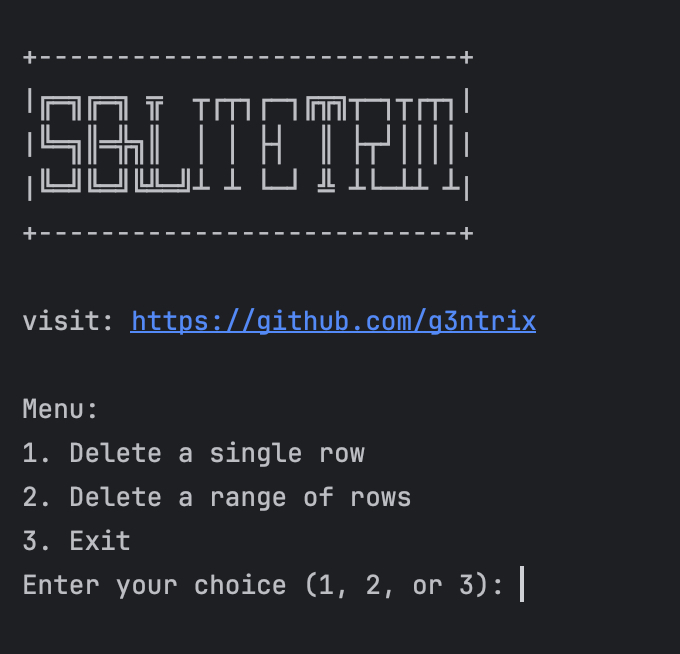
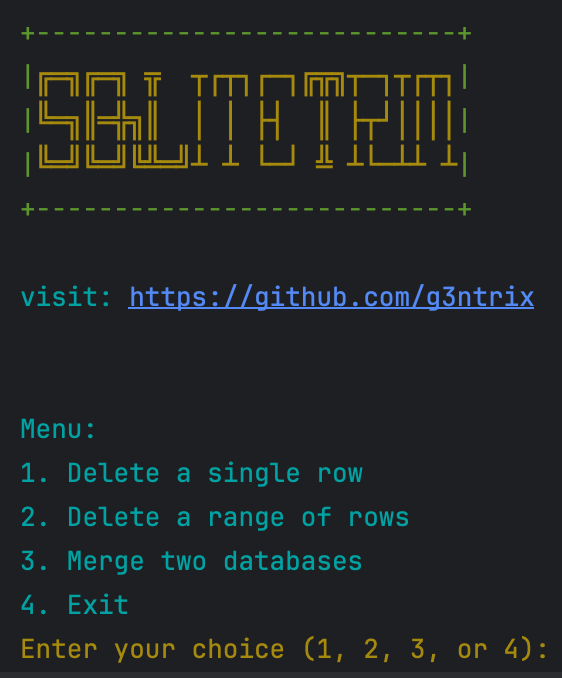
Add GUI and Terminal Interface Options, Database Merging Functionality, and Improved UX
This update includes several major enhancements and features:

1. Added the option to choose between a GUI and terminal-based interface.
2. Implemented functionality to merge two SQLite databases while preserving settings from the first database.
3. Improved user experience with better formatting, coloring, and always visible banner throughout the menus.
4. Updated the README to reflect the new features, including detailed instructions and side-by-side screenshots.

These changes aim to enhance the usability and functionality of the SQLiteTrim tool, making it more versatile and user-friendly.

diff --git a/main.py b/main.py
@@ -1,17 +1,82 @@
 import sqlite3
-import os
 import shutil
+import tkinter as tk
+from tkinter import filedialog, simpledialog
+import colorama
+from colorama import Fore, Style
 
-print("""
-+---------------------------+
-|╔═╗╔═╗ ╦  ┬┌┬┐┌─┐╔╦╗┬─┐┬┌┬┐|
-|╚═╗║═╬╗║  │ │ ├┤  ║ ├┬┘││││|
-|╚═╝╚═╝╚╩═╝┴ ┴ └─┘ ╩ ┴└─┴┴ ┴|
-+---------------------------+
+colorama.init(autoreset=True)
+
+print(f"""
+{Fore.GREEN}+---------------------------+
+{Fore.GREEN}|{Fore.YELLOW}╔═╗╔═╗ ╦  ┬┌┬┐┌─┐╔╦╗┬─┐┬┌┬┐{Fore.GREEN}|
+{Fore.GREEN}|{Fore.YELLOW}╚═╗║═╬╗║  │ │ ├┤  ║ ├┬┘││││{Fore.GREEN}|
+{Fore.GREEN}|{Fore.YELLOW}╚═╝╚═╝╚╩═╝┴ ┴ └─┘ ╩ ┴└─┴┴ ┴{Fore.GREEN}|
+{Fore.GREEN}+---------------------------+
 """)
-print("visit: https://github.com/g3ntrix")
+print(f"{Fore.CYAN}visit: https://github.com/g3ntrix\n")
 
-def recreate_with_sequential_ids(original_db_path, new_db_path, delete_type, start_id, end_id=None):
+def recreate_with_sequential_ids(db_path, start_id=1):
+    conn = sqlite3.connect(db_path)
+    cursor = conn.cursor()
+
+    try:
+        cursor.execute("PRAGMA table_info(inbounds)")
+        columns_info = cursor.fetchall()
+        columns = [col[1] for col in columns_info]
+        columns_str = ', '.join(columns)
+        placeholders = ', '.join('?' * len(columns))
+
+        cursor.execute("SELECT * FROM inbounds ORDER BY id")
+        rows = cursor.fetchall()
+        cursor.execute("DELETE FROM inbounds")
+        conn.commit()
+
+        for new_id, row in enumerate(rows, start=start_id):
+            new_row = (new_id,) + row[1:]
+            cursor.execute(f"INSERT INTO inbounds ({columns_str}) VALUES ({placeholders})", new_row)
+
+        conn.commit()
+
+    except sqlite3.OperationalError as e:
+        print(f"{Fore.RED}OperationalError: {e}")
+    finally:
+        conn.close()
+
+def merge_databases(db1_path, db2_path, output_path):
+    shutil.copyfile(db1_path, output_path)
+    conn1 = sqlite3.connect(output_path)
+    conn2 = sqlite3.connect(db2_path)
+    cursor1 = conn1.cursor()
+    cursor2 = conn2.cursor()
+
+    try:
+        cursor1.execute("SELECT MAX(id) FROM inbounds")
+        max_id = cursor1.fetchone()[0] or 0
+        new_start_id = max_id + 1
+
+        cursor2.execute("PRAGMA table_info(inbounds)")
+        columns_info = cursor2.fetchall()
+        columns = [col[1] for col in columns_info]
+        columns_str = ', '.join(columns)
+        placeholders = ', '.join('?' * len(columns))
+
+        cursor2.execute("SELECT * FROM inbounds ORDER BY id")
+        rows = cursor2.fetchall()
+
+        for new_id, row in enumerate(rows, start=new_start_id):
+            new_row = (new_id,) + row[1:]
+            cursor1.execute(f"INSERT INTO inbounds ({columns_str}) VALUES ({placeholders})", new_row)
+
+        conn1.commit()
+
+    except sqlite3.OperationalError as e:
+        print(f"{Fore.RED}OperationalError: {e}")
+    finally:
+        conn1.close()
+        conn2.close()
+
+def delete_and_recreate(original_db_path, new_db_path, delete_type, start_id, end_id=None):
     shutil.copyfile(original_db_path, new_db_path)
     conn = sqlite3.connect(new_db_path)
     cursor = conn.cursor()
@@ -45,48 +110,115 @@ def recreate_with_sequential_ids(original_db_path, new_db_path, delete_type, sta
         conn.commit()
 
     except sqlite3.OperationalError as e:
-        print(f"OperationalError: {e}")
+        print(f"{Fore.RED}OperationalError: {e}")
     finally:
         conn.close()
 
+def select_file(gui, description):
+    if gui:
+        return filedialog.askopenfilename(title=description, filetypes=[("SQLite Database Files", "*.db"), ("All Files", "*.*")])
+    else:
+        return input(f"{Fore.YELLOW}{description}: ")
+
+def select_save_location(gui):
+    if gui:
+        return filedialog.asksaveasfilename(title="Select save location", defaultextension=".db", filetypes=[("SQLite Database Files", "*.db"), ("All Files", "*.*")])
+    else:
+        return input(f"{Fore.YELLOW}Enter the path to save the modified database: ")
+
+def get_input(prompt, gui):
+    if gui:
+        return simpledialog.askstring("Input", prompt)
+    else:
+        return input(f"{Fore.YELLOW}{prompt}: ")
+
 def main():
-    original_db_path = 'x-ui.db'
-    new_db_path = 'x-ui_modified.db'
+    print(f"{Fore.CYAN}Do you want to use the GUI or terminal interface?")
+    print(f"{Fore.CYAN}1. GUI")
+    print(f"{Fore.CYAN}2. Terminal")
+    choice = input(f"{Fore.YELLOW}Enter your choice (1 or 2): ")
+
+    gui = choice == '1'
+
+    if gui:
+        root = tk.Tk()
+        root.withdraw()
+        root.attributes('-topmost', True)
 
     while True:
-        print("\nMenu:")
-        print("1. Delete a single row")
-        print("2. Delete a range of rows")
-        print("3. Exit")
+        print(f"{Fore.CYAN}\nMenu:")
+        print(f"{Fore.CYAN}1. Delete a single row")
+        print(f"{Fore.CYAN}2. Delete a range of rows")
+        print(f"{Fore.CYAN}3. Merge two databases")
+        print(f"{Fore.CYAN}4. Exit")
 
         try:
-            choice = int(input("Enter your choice (1, 2, or 3): "))
+            choice = int(input(f"{Fore.YELLOW}Enter your choice (1, 2, 3, or 4): "))
         except ValueError:
-            print("Invalid input. Please enter a number (1, 2, or 3).")
+            print(f"{Fore.RED}Invalid input. Please enter a number (1, 2, 3, or 4).")
             continue
 
         if choice == 1:
+            db_path = select_file(gui, "Enter the path to the database file")
+            if not db_path:
+                print(f"{Fore.RED}No file selected. Exiting.")
+                continue
+
+            output_path = select_save_location(gui)
+            if not output_path:
+                print(f"{Fore.RED}No file selected. Exiting.")
+                continue
+
             try:
-                start_id = int(input("Enter the ID of the row to delete: "))
-                recreate_with_sequential_ids(original_db_path, new_db_path, 'single', start_id)
-                print(f"Modified database saved as {new_db_path}")
-                break
+                start_id = int(get_input("Enter the ID of the row to delete", gui))
+                delete_and_recreate(db_path, output_path, 'single', start_id)
+                print(f"{Fore.GREEN}Modified database saved as {output_path}")
             except ValueError:
-                print("Invalid input. Please enter a valid row ID.")
+                print(f"{Fore.RED}Invalid input. Please enter a valid row ID.")
         elif choice == 2:
+            db_path = select_file(gui, "Enter the path to the database file")
+            if not db_path:
+                print(f"{Fore.RED}No file selected. Exiting.")
+                continue
+
+            output_path = select_save_location(gui)
+            if not output_path:
+                print(f"{Fore.RED}No file selected. Exiting.")
+                continue
+
             try:
-                start_id = int(input("Enter the start ID of the range to delete: "))
-                end_id = int(input("Enter the end ID of the range to delete: "))
-                recreate_with_sequential_ids(original_db_path, new_db_path, 'range', start_id, end_id)
-                print(f"Modified database saved as {new_db_path}")
-                break
+                start_id = int(get_input("Enter the start ID of the range to delete", gui))
+                end_id = int(get_input("Enter the end ID of the range to delete", gui))
+                delete_and_recreate(db_path, output_path, 'range', start_id, end_id)
+                print(f"{Fore.GREEN}Modified database saved as {output_path}")
             except ValueError:
-                print("Invalid input. Please enter valid row IDs.")
+                print(f"{Fore.RED}Invalid input. Please enter valid row IDs.")
         elif choice == 3:
-            print("Exiting the program.")
+            db1_path = select_file(gui, "Enter the path to the first database file")
+            if not db1_path:
+                print(f"{Fore.RED}No file selected. Exiting.")
+                continue
+
+            db2_path = select_file(gui, "Enter the path to the second database file")
+            if not db2_path:
+                print(f"{Fore.RED}No file selected. Exiting.")
+                continue
+
+            output_path = select_save_location(gui)
+            if not output_path:
+                print(f"{Fore.RED}No file selected. Exiting.")
+                continue
+
+            recreate_with_sequential_ids(db1_path)
+            recreate_with_sequential_ids(db2_path, start_id=1)
+            merge_databases(db1_path, db2_path, output_path)
+
+            print(f"{Fore.GREEN}Merged database saved as {output_path}")
+        elif choice == 4:
+            print(f"{Fore.CYAN}Exiting the program.")
             break
         else:
-            print("Invalid choice. Please enter 1, 2, or 3.")
+            print(f"{Fore.RED}Invalid choice. Please enter 1, 2, 3, or 4.")
 
 if __name__ == "__main__":
     main()

diff --git a/README.md b/README.md
@@ -1,18 +1,20 @@
 # SQLiteTrim
 
-**SQLiteTrim** is a specialized Python tool designed to help manage x-ui SQLite databases by removing excessive rows without affecting the overall functionality. This ensures that user creation and management remain seamless by maintaining correct sequential IDs.
+**SQLiteTrim** is a specialized Python tool designed to help manage x-ui SQLite databases by removing excessive rows without affecting the overall functionality. This ensures that user creation and management remain seamless by maintaining correct sequential IDs. Additionally, the tool now supports merging two SQLite databases and offers both GUI and terminal interfaces.
 
 ## Features
 
-- Interactive Menu: Provides a user-friendly interface to select deletion options.
-- Single Row Deletion: Delete a specific row by its ID.
-- Range Deletion: Delete a range of rows by specifying start and end IDs.
-- Sequential Renumbering: Automatically renumbers remaining rows to maintain sequential order.
-- Safe Operations: Modifies a copy of the original database to ensure data safety.
+- **Interactive Menu**: Provides a user-friendly interface to select deletion options.
+- **Single Row Deletion**: Delete a specific row by its ID.
+- **Range Deletion**: Delete a range of rows by specifying start and end IDs.
+- **Sequential Renumbering**: Automatically renumbers remaining rows to maintain sequential order.
+- **Database Merging**: Merge two SQLite databases while preserving settings from the first database.
+- **GUI and Terminal Interfaces**: Choose between a graphical user interface or a terminal-based interface.
+- **Safe Operations**: Modifies a copy of the original database to ensure data safety.
 
 ## Why SQLiteTrim?
 
-x-ui databases can accumulate excessive rows over time, which can lead to inefficiencies and potential issues in managing user data. SQLiteTrim was developed to address this by allowing administrators to remove unwanted rows while preserving the functionality and integrity of the database. By maintaining correct sequential IDs, the tool ensures that the database remains optimized for user creation and other operations.
+x-ui databases can accumulate excessive rows over time, which can lead to inefficiencies and potential issues in managing user data. SQLiteTrim was developed to address this by allowing administrators to remove unwanted rows while preserving the functionality and integrity of the database. By maintaining correct sequential IDs, the tool ensures that the database remains optimized for user creation and other operations. The merging functionality further enhances the tool by allowing easy integration of multiple databases.
 
 ## Usage
 
@@ -27,9 +29,12 @@ x-ui databases can accumulate excessive rows over time, which can lead to ineffi
     python sqlite_trim.py
     ```
 
-3. **Follow the Interactive Prompts**:
-    - Choose to delete a single row or a range of rows.
-    - Enter the ID(s) as prompted.
+3. **Choose Interface**:
+    - At startup, choose whether to use the GUI or terminal interface.
+
+4. **Follow the Interactive Prompts**:
+    - Choose to delete a single row, delete a range of rows, or merge two databases.
+    - Enter the ID(s) or file paths as prompted.
     - The modified database will be saved with a new name, preserving the original file.
 
 ## Important Notes
@@ -37,14 +42,20 @@ x-ui databases can accumulate excessive rows over time, which can lead to ineffi
 1. **Backup your data** before using this tool. SQLiteTrim is in the early phase of development and may contain bugs.
 2. Ensure that the `x-ui.db` file is named exactly as `x-ui.db` and placed in the directory where you run the tool.
 
-## Screenshot
+## Screenshots
 
-<img src="SC/1.jpg" alt="Screenshot" width="300">
+<table>
+  <tr>
+    <td><img src="SC/1.jpg" alt="Menu" width="100%"></td>
+    <td><img src="SC/2.jpg" alt="Process" width="100%"></td>
+  </tr>
+</table>
 
 ## Requirements
 
 - Python 3.x
 - SQLite3
+- Tkinter (for GUI)
 
 ## License
 
